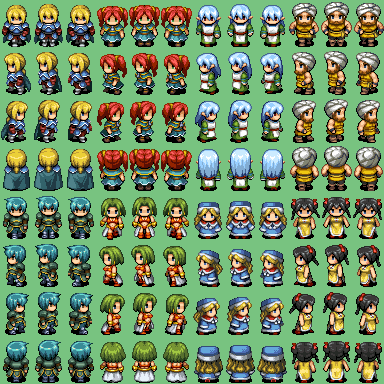
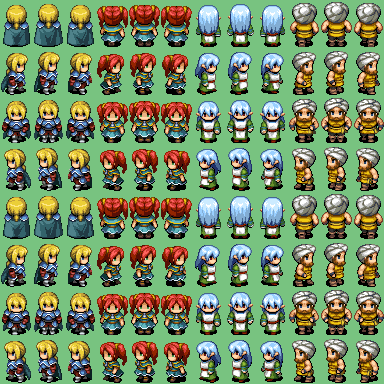
Update character's direction according to moving direction

diff --git a/src/ebi/rpg/MapCharacter.ts b/src/ebi/rpg/MapCharacter.ts
@@ -12,6 +12,8 @@ module ebi.rpg {
         private timer_: number = 0;
         private sprite_: ebi.game.Sprite = null;
         private charaChipset_: MapCharacterChipset;
+        private vx_: number;
+        private vy_: number;
 
         constructor(id: number) {
             this.charaChipset_ = DatabaseManager.getCharaChipsetData(id);
@@ -19,10 +21,11 @@ module ebi.rpg {
             this.frameNo_ = this.charaChipset_.defaultFrameNo;
             this.dir_ = 0;
             this.sprite_ = new ebi.game.Sprite(image);
-            this.sprite_.srcX      = (this.charaChipset_.indexW * this.charaChipset_.frameCount + this.frameNo_) * this.charaChipset_.sizeX;
-            this.sprite_.srcY      = (this.charaChipset_.indexH * this.charaChipset_.dirCount + this.dir_) * this.charaChipset_.sizeY;
+            this.sprite_.srcX      = 0;
+            this.sprite_.srcY      = 0;
             this.sprite_.srcWidth  = this.charaChipset_.sizeX;
             this.sprite_.srcHeight = this.charaChipset_.sizeY;
+            this.updateVisual();   
         }
 
         // x
@@ -46,9 +49,32 @@ module ebi.rpg {
                 return;
             }
 
-            this.sprite_.x += AnalogInputController.inputDx;
-            this.sprite_.y += AnalogInputController.inputDy;
+            this.updateVelocity();
+            this.updateDir();
+            this.updatePosition();
+            this.updateFrame();
+            this.updateVisual();
+        }
 
+        private updateVelocity(): void {
+            // update veocity
+            this.vx_ = AnalogInputController.inputDx;
+            this.vy_ = AnalogInputController.inputDy;
+        }
+
+        private updatePosition(): void {
+            this.sprite_.x += this.vx_;
+            this.sprite_.y += this.vy_;
+        }
+
+        private updateDir(): void {
+            var t = Math.atan2(this.vy_, this.vx_) / Math.PI; // -1.0 ~ 1.0
+            // Match the angle with chipset image format
+            var angle = (0.5 * t + 1.5 - (1 / (2 * this.charaChipset_.dirCount))) % 1.0; // 0.0 ~ 1.0
+            this.dir_ = Math.floor(angle * this.charaChipset_.dirCount) % this.charaChipset_.dirCount;
+        }
+
+        private updateFrame(): void {
             this.timer_++;
             if (this.timer_ > 10) {
                 this.timer_ = 0;
@@ -66,16 +92,13 @@ module ebi.rpg {
                     this.switchAnimDir_ = 1;
                 }
             }
-
-            // Update animation frame
-            this.sprite_.srcX = (this.charaChipset_.indexW * this.charaChipset_.frameCount + this.frameNo_) * this.charaChipset_.sizeX;
-
-            // Update animation dir
-            this.sprite_.srcY = (this.charaChipset_.indexH * this.charaChipset_.dirCount + this.dir_) * this.charaChipset_.sizeY;
         }
 
-        private updateDir(): void {
-            
+        private updateVisual(): void {
+            // Update animation frame
+            this.sprite_.srcX = (this.charaChipset_.indexW * this.charaChipset_.frameCount + this.frameNo_) * this.charaChipset_.sizeX;
+            // Update animation dir
+            this.sprite_.srcY = (this.charaChipset_.indexH * this.charaChipset_.dirCount + this.dir_) * this.charaChipset_.sizeY;
         }
     }
 }

diff --git a/src/ebi/rpg/AnalogInputController.ts b/src/ebi/rpg/AnalogInputController.ts
@@ -1,7 +1,7 @@
 module ebi.rpg {
     export class AnalogInputController {
-        private static MinInputValue: number = 16; // Logical Pixels
-        private static MaxInputValue: number = 64; // Logical Pixels
+        private static MinInputValue: number = 8; // Logical Pixels
+        private static MaxInputValue: number = 48; // Logical Pixels
 
         private static touchStartLocationX_: number;
         private static touchStartLocationY_: number;
@@ -36,8 +36,10 @@ module ebi.rpg {
                 var dx: number = ebi.game.Input.touchX - touchStartLocationX_;
                 var dy: number = ebi.game.Input.touchY - touchStartLocationY_;
 
-                inputDx_ = roundValue(dx, MinInputValue, MaxInputValue) / MaxInputValue;
-                inputDy_ = roundValue(-dy, MinInputValue, MaxInputValue) / MaxInputValue;
+                if ((dx * dx + dy * dy) > MinInputValue * MinInputValue) {
+                    inputDx_ = roundValue(dx, 0, MaxInputValue) / MaxInputValue;
+                    inputDy_ = roundValue(-dy, 0, MaxInputValue) / MaxInputValue;          
+                }
             }
         }
 
